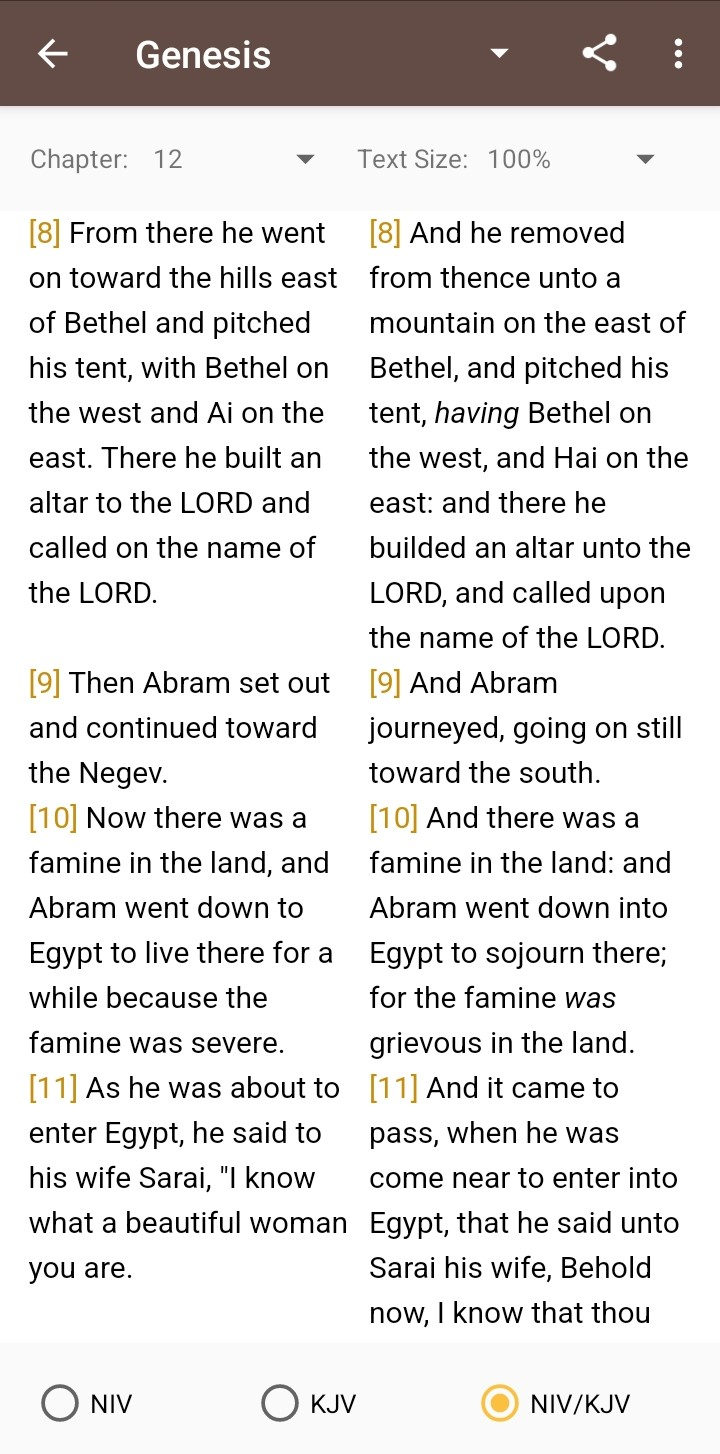
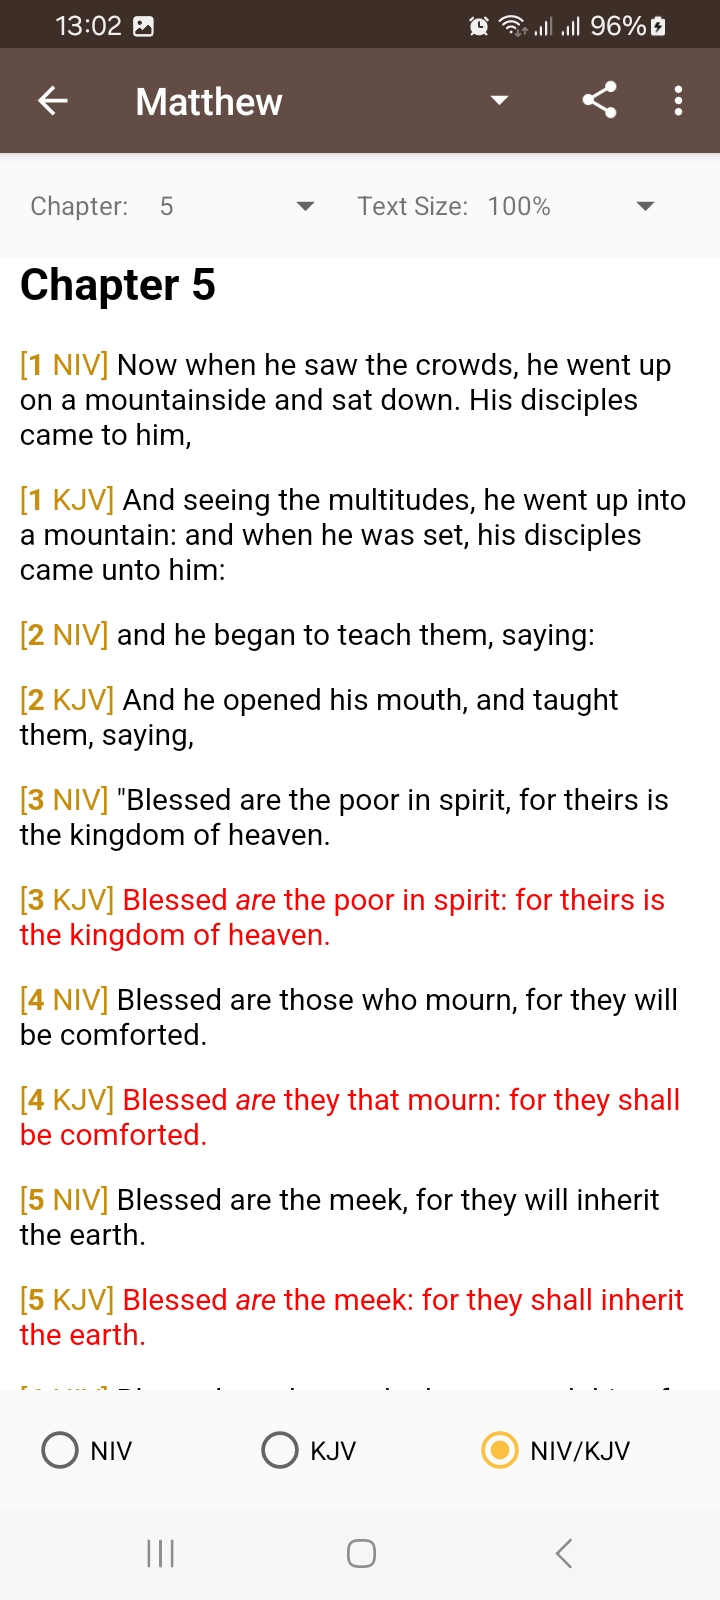
Fixed crampiness of verses. Removed line height setting. Fixed bug with night mode initialization at activity start up.

Changed region(s): [[0.0, 0.0, 1.0, 0.9904], [0.3667, 0.8975, 0.5194, 0.9904], [0.2139, 0.9594, 0.2444, 0.9904]]

diff --git a/Niv1984/app/src/main/assets/css/base.css b/Niv1984/app/src/main/assets/css/base.css
@@ -1,15 +1,10 @@
-body {
-    line-height: 1.75;
-}
-
 #wrapper {
     margin-left: 0.15em;
     margin-right: 0.15em;
 }
 
-.fragment {
-    margin-top: 0.5em;
-    margin-bottom: 0.5em;
+.verse, .fragment {
+    margin-bottom: 1em;
 }
 
 .fragment.heading {
@@ -17,7 +12,7 @@ body {
 }
 
 .pictogram {
-    font-size: 1.5em;
+    /*font-size: 1.5em;*/
 }
 
 .wj {

diff --git a/Niv1984/app/src/main/java/com/aaronicsubstances/niv1984/fragments/BookTextFragment.java b/Niv1984/app/src/main/java/com/aaronicsubstances/niv1984/fragments/BookTextFragment.java
@@ -54,7 +54,6 @@ public class BookTextFragment extends Fragment implements View.OnClickListener,
 
     private boolean mViewCreated = false;
 
-    private int mLastLineHeightIdx;
     private boolean mDualModeOn, mReadBothSideBySide;
 
     private Runnable KEEP_SCREEN_OFF;
@@ -130,15 +129,6 @@ public class BookTextFragment extends Fragment implements View.OnClickListener,
         if (lastZoomLevelIdx >= 0) {
             if (lastZoomLevelIdx != mZoomSpinner.getSelectedItemPosition()) {
                 mZoomSpinner.setSelection(lastZoomLevelIdx, false);
-                viewOutOfDate = true;
-            }
-        }
-        if (mLastLineHeightIdx >= 0) {
-            int lineHeightIdx = mPrefMgr.getLineHeightIndex();
-            if (lineHeightIdx < 0) {
-                lineHeightIdx = BookTextViewUtils.DEFAULT_LINE_HEIGHT_INDEX;
-            }
-            if (lineHeightIdx != mLastLineHeightIdx) {
                 viewOutOfDate = true;
             }
         }
@@ -277,11 +267,6 @@ public class BookTextFragment extends Fragment implements View.OnClickListener,
                 break;
         }
 
-        mLastLineHeightIdx = mPrefMgr.getLineHeightIndex();
-        if (mLastLineHeightIdx < 0) {
-            mLastLineHeightIdx = BookTextViewUtils.DEFAULT_LINE_HEIGHT_INDEX;
-        }
-
         // For change in text size to take effect,
         // it has so far been observed that it is not enough
         // to call loadUrl() on the WebView instance with
@@ -293,8 +278,7 @@ public class BookTextFragment extends Fragment implements View.OnClickListener,
         String bookUrl = BookTextViewUtils.resolveUrl(
                 String.format("kjv-niv/%02d-%s.html",
                 mBookNumber, suffix),
-                "zoom", "" + mZoomSpinner.getSelectedItemPosition(),
-                            "line-height", "" + mLastLineHeightIdx);
+                "zoom", "" + mZoomSpinner.getSelectedItemPosition());
 
         String lastEffectiveBookmark = mPrefMgr.getLastInternalBookmark(mBookNumber);
         if (lastEffectiveBookmark != null) {
@@ -322,7 +306,6 @@ public class BookTextFragment extends Fragment implements View.OnClickListener,
 
         LOGGER.info("Loading book url {}", bookUrl);
         mWebViewPageLoadIndicator.setVisibility(loadIndicatorVisibility);
-        //mBookView.setVisibility(loadIndicatorVisibility == View.VISIBLE ? View.INVISIBLE : View.VISIBLE);
         mBookView.loadUrl(bookUrl);
     }
 
@@ -361,7 +344,6 @@ public class BookTextFragment extends Fragment implements View.OnClickListener,
     @Override
     public void onPageLoadCompleted() {
         mWebViewPageLoadIndicator.setVisibility(View.INVISIBLE);
-        //mBookView.setVisibility(View.VISIBLE);
         postponeKeepScreenOff();
     }
 

diff --git a/Niv1984/app/src/main/java/com/aaronicsubstances/niv1984/etc/BookTextViewUtils.java b/Niv1984/app/src/main/java/com/aaronicsubstances/niv1984/etc/BookTextViewUtils.java
@@ -29,7 +29,6 @@ import java.util.regex.Pattern;
 public class BookTextViewUtils {
     public static final String LAUNCH_URL = "http://localhost";
     public static final int DEFAULT_ZOOM_INDEX = 1;
-    public static final int DEFAULT_LINE_HEIGHT_INDEX = 2;
     private static final Pattern HTML_SUFFIX_PATTERN = Pattern.compile("\\.html\\d*$");
 
     private static final Logger LOGGER = LoggerFactory.getLogger(BookTextViewUtils.class);
@@ -122,26 +121,19 @@ public class BookTextViewUtils {
         }
 
         // Before serving do something special for css/base.css
-        // by appending zoom and line height information.
+        // by appending zoom information.
         if (assetPath.equals("css/base.css")) {
             int zoomLevelIndex = sharedPrefsManager.getZoomLevelIndex();
             if (zoomLevelIndex < 0) {
                 zoomLevelIndex = DEFAULT_ZOOM_INDEX;
             }
-            int lineHeightIndex = sharedPrefsManager.getLineHeightIndex();
-            if (lineHeightIndex < 0) {
-                lineHeightIndex = DEFAULT_LINE_HEIGHT_INDEX;
-            }
-            if (zoomLevelIndex != DEFAULT_ZOOM_INDEX || lineHeightIndex != DEFAULT_LINE_HEIGHT_INDEX) {
+            if (zoomLevelIndex != DEFAULT_ZOOM_INDEX) {
                 LOGGER.debug("Appending custom css...");
                 String originalCss = Utils.toString(assetStream);
                 assetStream.close();
                 String zoom = context.getResources().getStringArray(R.array.zoom_entries_slim)[zoomLevelIndex];
-                // for some reason percentages were not working with line-height of 250% upwards,
-                // so had to use floating-points.
-                double lineHeight = 1.25 + 0.25 * lineHeightIndex;
-                assetStream = new ByteArrayInputStream(String.format("%s%nbody { font-size: %s; line-height: %s; }",
-                        originalCss, zoom, lineHeight).getBytes());
+                assetStream = new ByteArrayInputStream(String.format("%s%nbody { font-size: %s; }",
+                        originalCss, zoom).getBytes());
             }
         }
 

diff --git a/Niv1984/app/src/main/java/com/aaronicsubstances/niv1984/activities/MainActivity.java b/Niv1984/app/src/main/java/com/aaronicsubstances/niv1984/activities/MainActivity.java
@@ -4,6 +4,7 @@ import android.content.Intent;
 import android.os.Bundle;
 
 import androidx.activity.OnBackPressedCallback;
+import androidx.annotation.NonNull;
 import androidx.appcompat.app.AppCompatDelegate;
 import androidx.fragment.app.DialogFragment;
 import androidx.fragment.app.Fragment;
@@ -12,6 +13,7 @@ import androidx.appcompat.widget.AppCompatSpinner;
 import androidx.appcompat.widget.Toolbar;
 
 import android.text.TextUtils;
+import android.view.ActionMode;
 import android.view.Menu;
 import android.view.MenuItem;
 import android.view.View;
@@ -54,9 +56,12 @@ public class MainActivity extends BaseActivity implements
     protected void onCreate(Bundle savedInstanceState) {
         super.onCreate(savedInstanceState);
         mPrefM = new SharedPrefsManager(this);
-        AppCompatDelegate.setDefaultNightMode(mPrefM.isNightModeOn() ?
+        int desiredNightMode = mPrefM.isNightModeOn() ?
                 AppCompatDelegate.MODE_NIGHT_YES :
-                AppCompatDelegate.MODE_NIGHT_NO);
+                AppCompatDelegate.MODE_NIGHT_NO;
+        if (AppCompatDelegate.getDefaultNightMode() != desiredNightMode) {
+            AppCompatDelegate.setDefaultNightMode(desiredNightMode);
+        }
         setContentView(R.layout.activity_main);
         Toolbar toolbar = (Toolbar) findViewById(R.id.toolbar);
         setSupportActionBar(toolbar);

diff --git a/Niv1984/app/src/main/java/com/aaronicsubstances/niv1984/etc/SharedPrefsManager.java b/Niv1984/app/src/main/java/com/aaronicsubstances/niv1984/etc/SharedPrefsManager.java
@@ -27,7 +27,7 @@ public class SharedPrefsManager {
     public static final String SHARED_PREF_NAME = "prefs";
     private static final String SHARED_PREF_KEY_BOOK_MODE = "book_mode";
     public static final String SHARED_PREF_KEY_ZOOM = "zoom";
-    public static final String SHARED_PRF_KEY_LINE_HEIGHT= "line_height";
+    //public static final String SHARED_PRF_KEY_LINE_HEIGHT= "line_height";
     private static final String SHARED_PREF_KEY_KEEP_SCREEN_ON = "keep_screen_on";
     public static final String SHARED_PREF_KEY_NIGHT_MODE = "night_mode";
     private static final String SHARED_PREF_KEY_READ_BOTH_SIDE_BY_SIDE = "two_column_mode";
@@ -114,16 +114,6 @@ public class SharedPrefsManager {
         SharedPreferences.Editor ed = mContext.getSharedPreferences(SHARED_PREF_NAME, 0).edit();
         ed.putString(SHARED_PREF_KEY_ZOOM, "" + lastZoomLevelIndex);
         ed.commit();
-    }
-
-    public int getLineHeightIndex() {
-        String strVal = mContext.getSharedPreferences(SHARED_PREF_NAME, 0).getString(
-                SHARED_PRF_KEY_LINE_HEIGHT, null
-        );
-        if (strVal == null) {
-            return -1;
-        }
-        return Integer.parseInt(strVal);
     }
 
     public boolean getKeepUserScreenOn() {
